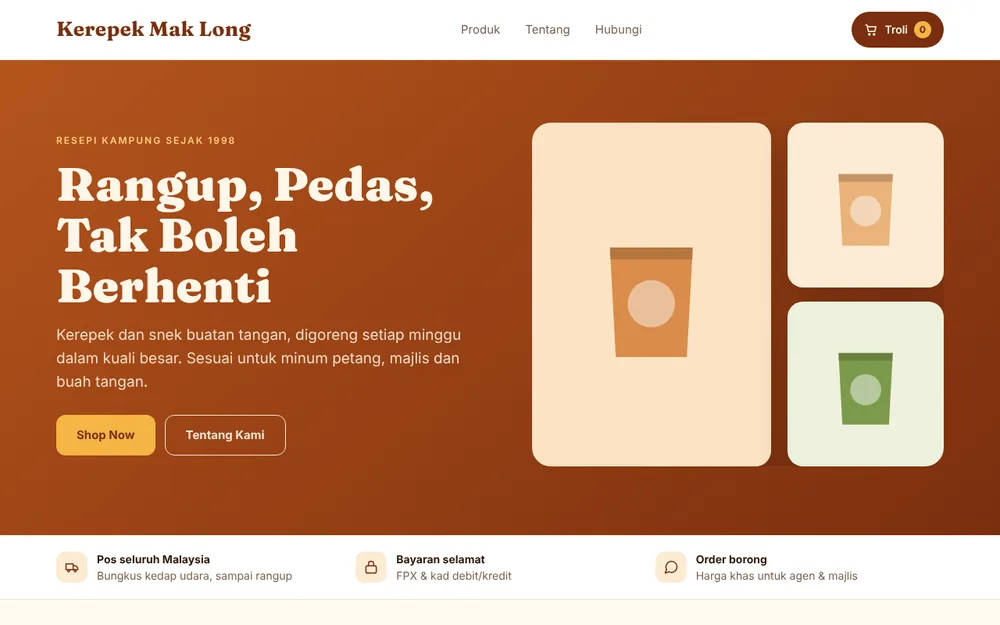
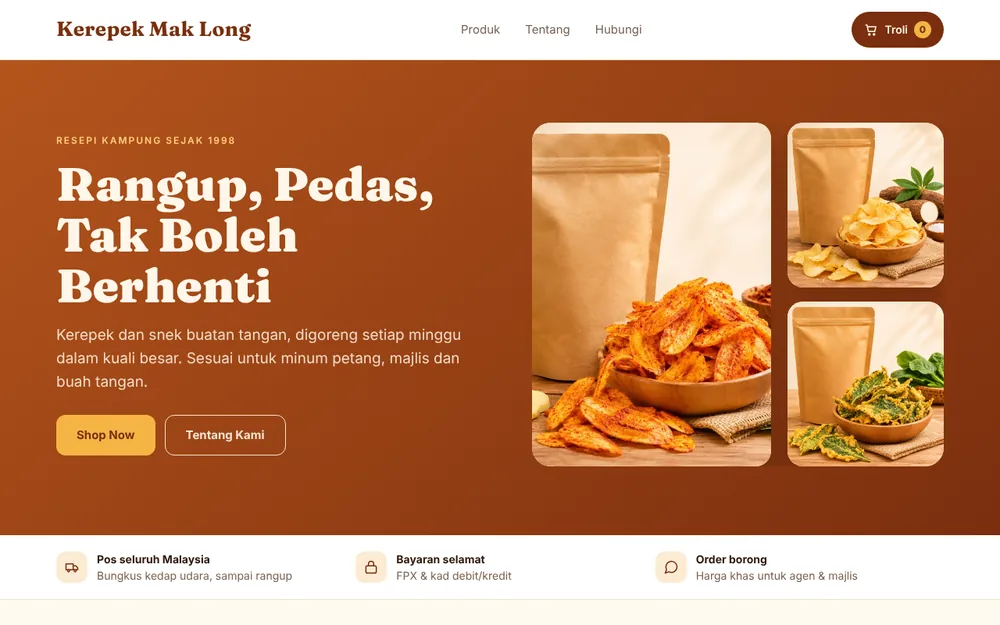
Demo kerepek: gambar produk sebenar + screenshot portfolio baru
Claude-Session: https://claude.ai/code/session_016PHqGdSGQm5iPk51qSq48s

Changed region(s): [[0.527, 0.1824, 0.961, 0.76], [0.93, 0.4864, 0.961, 0.5168], [0.899, 0.1824, 0.93, 0.2128]]

diff --git a/demo/kerepek/index.html b/demo/kerepek/index.html
@@ -42,14 +42,14 @@ window.KEDAI = {
   categories: ['Kerepek', 'Snek', 'Combo'],
   shipping: 9,
   products: [
-    { id: 'k1', name: 'Kerepek Pisang Pedas Viral', cat: 'Kerepek', price: 15, old: 18, badge: 'VIRAL', desc: 'Pisang tanduk, salut serbuk cili.', shape: 'pack', color: '#D98C4A', bg: '#FBE3C4' },
-    { id: 'k2', name: 'Kerepek Ubi Masin', cat: 'Kerepek', price: 12, desc: 'Ubi kayu nipis, rasa masin klasik.', shape: 'pack', color: '#E9B27A', bg: '#FCEBD5' },
-    { id: 'k3', name: 'Kerepek Bayam Rangup', cat: 'Kerepek', price: 14, desc: 'Daun bayam bersalut tepung rempah.', shape: 'pack', color: '#7C9A4B', bg: '#EEF1DD' },
-    { id: 'k4', name: 'Kacang Parpu Goreng', cat: 'Snek', price: 10, desc: 'Kacang dhal goreng bawang & cili.', shape: 'jar', color: '#F4B544', bg: '#FDF0D2' },
-    { id: 'k5', name: 'Rempeyek Kacang', cat: 'Snek', price: 13, badge: 'BARU', desc: 'Rangup nipis, penuh kacang tanah.', shape: 'jar', color: '#C9864A', bg: '#F8E6D2' },
-    { id: 'k6', name: 'Maruku Pedas', cat: 'Snek', price: 11, desc: 'Maruku sederhana pedas, wangi jintan.', shape: 'jar', color: '#B4541C', bg: '#F6DCC8' },
-    { id: 'k7', name: 'Combo Minum Petang (4 pek)', cat: 'Combo', price: 45, old: 54, badge: 'JIMAT', desc: 'Pilihan Mak Long 4 perisa popular.', shape: 'box', color: '#B4541C', bg: '#FBE3C4' },
-    { id: 'k8', name: 'Balang Raya Besar', cat: 'Combo', price: 39, desc: 'Balang 1kg campuran, cantik untuk tetamu.', shape: 'jar', color: '#7A2E0E', bg: '#F4DCCB' }
+    { id: 'k1', img: 'img/k1.webp?v=1', name: 'Kerepek Pisang Pedas Viral', cat: 'Kerepek', price: 15, old: 18, badge: 'VIRAL', desc: 'Pisang tanduk, salut serbuk cili.', shape: 'pack', color: '#D98C4A', bg: '#FBE3C4' },
+    { id: 'k2', img: 'img/k2.webp?v=1', name: 'Kerepek Ubi Masin', cat: 'Kerepek', price: 12, desc: 'Ubi kayu nipis, rasa masin klasik.', shape: 'pack', color: '#E9B27A', bg: '#FCEBD5' },
+    { id: 'k3', img: 'img/k3.webp?v=1', name: 'Kerepek Bayam Rangup', cat: 'Kerepek', price: 14, desc: 'Daun bayam bersalut tepung rempah.', shape: 'pack', color: '#7C9A4B', bg: '#EEF1DD' },
+    { id: 'k4', img: 'img/k4.webp?v=1', name: 'Kacang Parpu Goreng', cat: 'Snek', price: 10, desc: 'Kacang dhal goreng bawang & cili.', shape: 'jar', color: '#F4B544', bg: '#FDF0D2' },
+    { id: 'k5', img: 'img/k5.webp?v=1', name: 'Rempeyek Kacang', cat: 'Snek', price: 13, badge: 'BARU', desc: 'Rangup nipis, penuh kacang tanah.', shape: 'jar', color: '#C9864A', bg: '#F8E6D2' },
+    { id: 'k6', img: 'img/k6.webp?v=1', name: 'Maruku Pedas', cat: 'Snek', price: 11, desc: 'Maruku sederhana pedas, wangi jintan.', shape: 'jar', color: '#B4541C', bg: '#F6DCC8' },
+    { id: 'k7', img: 'img/k7.webp?v=1', name: 'Combo Minum Petang (4 pek)', cat: 'Combo', price: 45, old: 54, badge: 'JIMAT', desc: 'Pilihan Mak Long 4 perisa popular.', shape: 'box', color: '#B4541C', bg: '#FBE3C4' },
+    { id: 'k8', img: 'img/k8.webp?v=1', name: 'Balang Raya Besar', cat: 'Combo', price: 39, desc: 'Balang 1kg campuran, cantik untuk tetamu.', shape: 'jar', color: '#7A2E0E', bg: '#F4DCCB' }
   ],
   about: {
     title: 'Dari Dapur Mak Long ke Rumah Anda',

diff --git a/index.html b/index.html
@@ -651,7 +651,7 @@ details p{padding:0 20px 22px;font-size:15px;line-height:1.65;color:#C9D1E0}
       <article class="card t-kerepek">
         <div class="card-prev"><div class="browser">
           <div class="b-bar"><i></i><i></i><i></i><span>websitesme.my/demo/kerepek</span></div>
-          <img class="b-shot" src="assets/preview/port-kerepek.webp" alt="Preview kedai demo kerepek" width="1000" height="625" loading="lazy"></div></div>
+          <img class="b-shot" src="assets/preview/port-kerepek.webp?v=2" alt="Preview kedai demo kerepek" width="1000" height="625" loading="lazy"></div></div>
         <div class="card-info">
           <div>
             <div class="card-title"><h3>Kerepek Mak Long</h3><span class="pill demo">DEMO</span></div>
